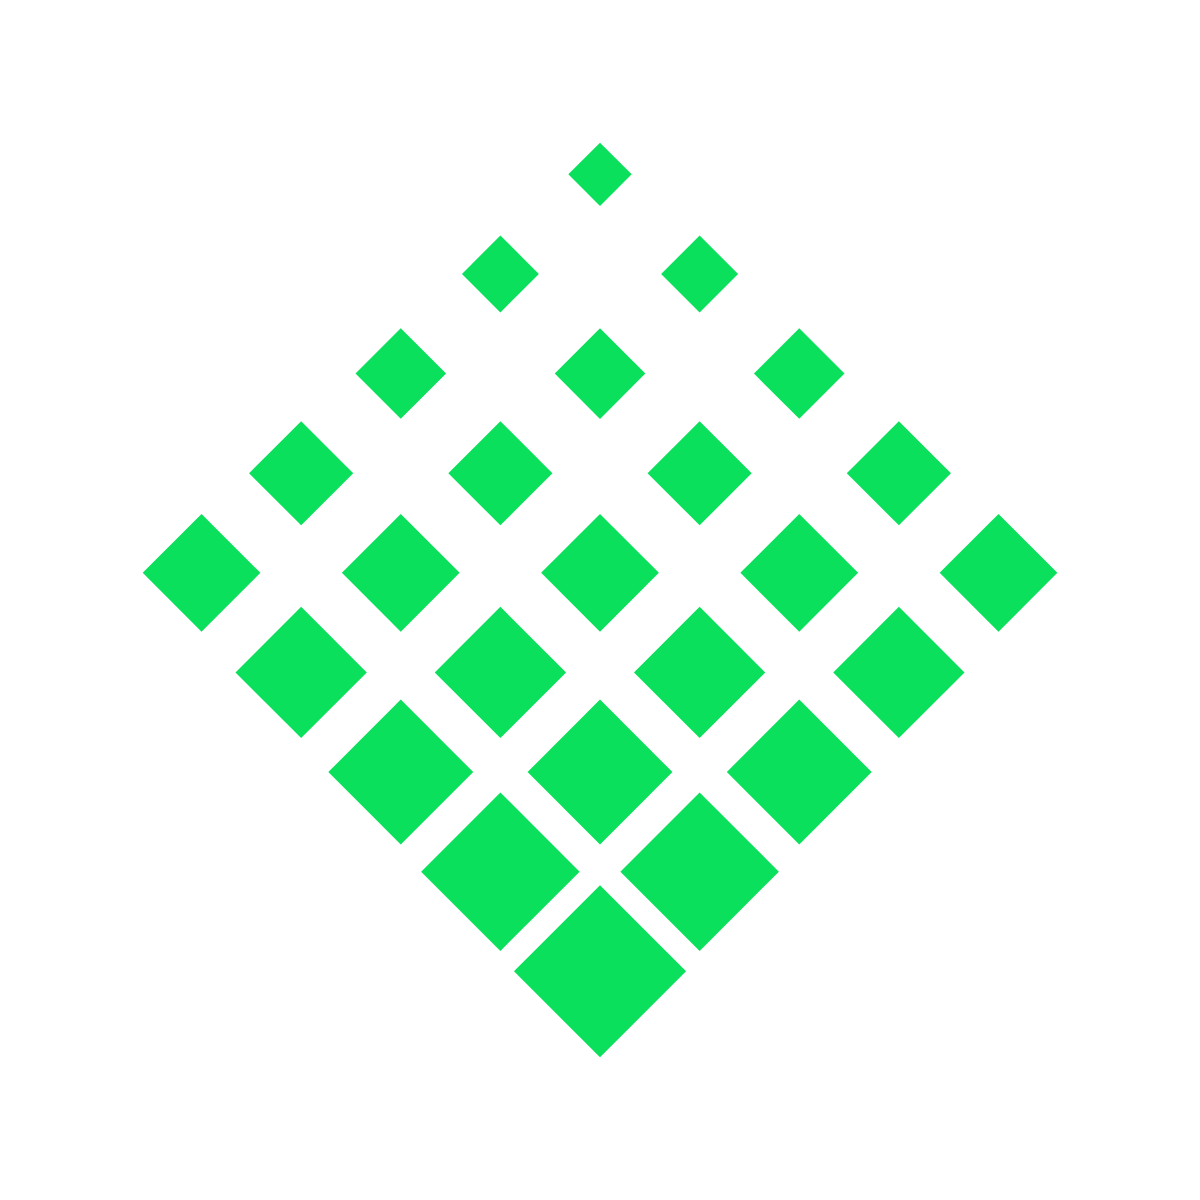
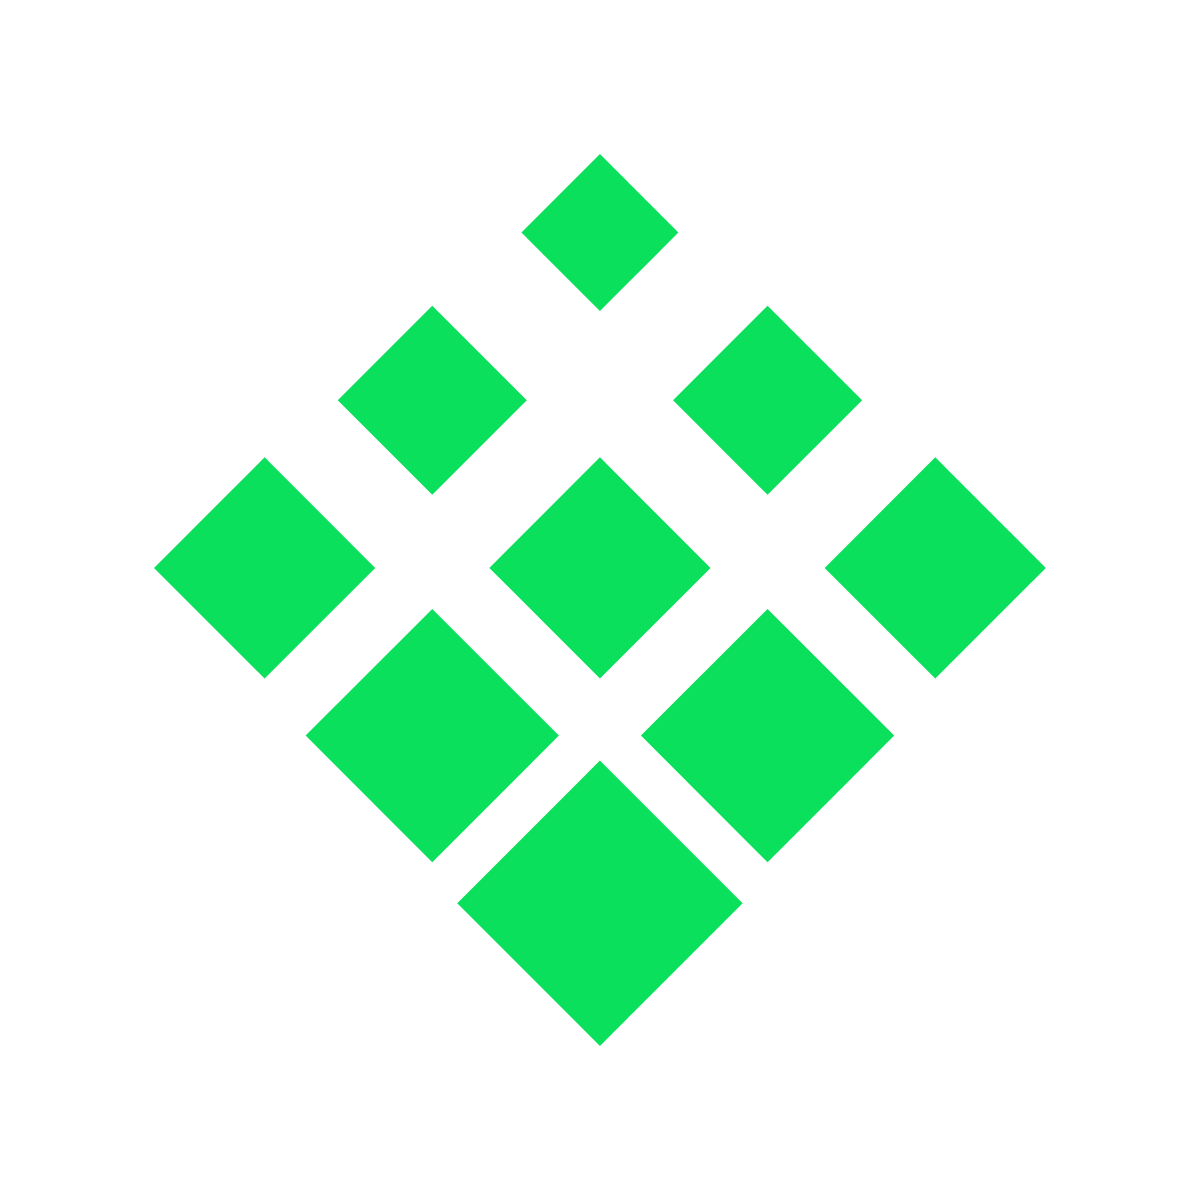
fix(vm): the container stack, proven — no 503 after boot, no 502 when publishing
The VM path was written but never run. It runs now, here: Docker + Postgres 16
+ Caddy, the whole stack up, measured. (This sandbox's containers cannot reach
the npm registry, so the image was built through the sandbox's proxy and CA in
a throwaway Dockerfile — only the network differs from the file in the repo.)

Two defects that no amount of reading would have found:

  - 30 seconds of 503 after every publish. The Caddyfile did ACTIVE health
    checking, and with a single upstream that is a trap: the first check lands
    while the app is still booting, the upstream is marked dead, and it stays
    dead until the next round. Removed. What watches the app now is the
    container's healthcheck, which hits /healthz — and /healthz only answers
    200 when the database answers.

  - 1.3 seconds of 502 per publish, measured with a request every 200ms across
    `up -d --build`. Recreating the container takes the name `app` out of
    Docker's DNS, and Caddy does not retry a request that fails to resolve.
    Fixed with `dynamic a`: the address is resolved per request, and
    lb_try_duration makes the request wait. Re-measured: 0 failures in 120
    samples.

Also verified against the running stack: automatic HTTPS (certificate issued,
http → 308), migrations applied by the container at start, the database
surviving both a restart and a full recreate, and the app refusing to boot in
production without DVFLY_TOKEN_KEY, with the message that says what to do.
[…]

Changed region(s): [[0.1233, 0.1233, 0.8633, 0.8942], [0.8633, 0.4625, 0.8942, 0.4933], [0.6783, 0.6475, 0.7092, 0.6783]]

diff --git a/docs/PROGRESSO.md b/docs/PROGRESSO.md
@@ -1245,12 +1245,39 @@ aparece como erro sem nome dentro do admin.
 - 102 testes, typecheck, build, e o `docker compose config` valida.
 
 **O que não deu para verificar aqui, dito na cara:** o `docker build` não completa neste
-ambiente — os containers não têm saída para o `registry.npmjs.org` (o `npm ci` morre no
-meio). O caminho da VM está escrito e validado na configuração, mas a imagem só será provada
-na primeira vez que você rodar `docker compose up -d --build` na VM.
+ambiente com a rede normal — os containers não alcançam o `registry.npmjs.org`. (Resolvido
+no mesmo dia passando a proxy do sandbox; veja a entrada seguinte, onde a pilha inteira roda.)
 
 **Guia:** `docs/HOSPEDAGEM.md` — as duas estradas, passo a passo, com a tabela de erros
 comuns e a nota honesta sobre o plano Hobby da Vercel ser para uso não comercial.
+
+### ✅ A pilha da VM provada de ponta a ponta — e dois defeitos consertados (16/09)
+
+O usuário escolheu a VM. Antes de ele encostar na máquina dele, a pilha inteira subiu **aqui**
+(Docker + Postgres 16 + Caddy). Os containers deste ambiente não alcançam o `registry.npmjs.org`;
+a imagem foi construída passando a proxy e a CA do sandbox num `Dockerfile.test` descartável —
+o que muda é só a rede, o resto da imagem é o arquivo do repositório.
+
+O que a prova pegou (e que nenhuma leitura de código pegaria):
+
+1. **503 por 30 s depois de publicar.** O `Caddyfile` fazia checagem ATIVA de saúde. Com um
+   destino só, a primeira checagem cai enquanto o app ainda sobe e o destino fica marcado como
+   morto até a rodada seguinte — 30 segundos de 503 para todo mundo. Tirada. Quem vigia agora é
+   o `healthcheck` do container (bate no `/healthz`, que só dá 200 com o banco respondendo).
+2. **1,3 s de 502 a cada publicação** (medido com uma requisição a cada 200 ms durante um
+   `up -d --build`): ao recriar o container, o nome `app` some do DNS do Docker e o Caddy não
+   repete requisição que falha em DNS. Conserto: `dynamic a` — o endereço é resolvido a cada
+   requisição, com `lb_try_duration`. Nova medição: **0 falhas em 120 amostras**.
+
+Também medido e conferido: HTTPS automático (certificado emitido pelo Caddy, `http` → 308),
+as migrations aplicadas sozinhas no start (log do container), o banco **sobrevivendo** a
+reinício e a recriação do container, e o app **recusando subir** em produção sem
+`DVFLY_TOKEN_KEY` — com a mensagem que diz o que fazer.
+
+A imagem saiu de **899 MB para 733 MB**: `npm prune --omit=dev` depois do build (o CLI do
+Prisma virou dependência de verdade, porque é ele que aplica as migrations no start) e o motor
+extra do Prisma (`rhel-openssl-3.0.x`, que só a Vercel usa) passou a entrar **só quando
+`VERCEL=1`** — o bloco `generator` também é gerado agora, pela mesma regra do datasource.
 
 ### ✅ A logo virou marca do app (16/09)
 

diff --git a/docs/HOSPEDAGEM.md b/docs/HOSPEDAGEM.md
@@ -151,11 +151,21 @@ nano .env     # preencha DVFLY_DOMAIN, POSTGRES_PASSWORD, as duas da Shopify e a
 
 ```bash
 docker compose up -d --build
-docker compose ps        # os três têm que estar "running"
+docker compose ps        # os três "running"; o app diz "(healthy)" em até 1 min
 curl -s https://dvfly.seudominio.com.br/healthz
 ```
 
 O app aplica as migrations sozinho a cada start — não existe passo manual de banco.
+
+O que esperar, medido nesta bancada com a pilha real subida (Docker + Postgres + Caddy):
+
+| | |
+|---|---|
+| Primeiro `up` | o Postgres fica saudável, **só então** o app sobe, aplica a migration e serve |
+| Imagem | ~730 MB (o que compila é podado; sobra o CLI do Prisma, que aplica as migrations) |
+| HTTPS | o Caddy pega o certificado sozinho; `http://` responde 308 para `https://` |
+| Publicar uma versão nova | **0 requisições perdidas** — quem chega durante a troca espera o app voltar |
+| Banco | sobrevive a publicação e a reinício (vive num volume, não na imagem) |
 
 ### 4. Daí em diante: publicar uma versão nova
 
@@ -163,6 +173,13 @@ Na sua máquina Windows, crie o arquivo `publicar-vm.txt` na pasta do projeto co
 linha** — `usuario@ip-ou-dominio` — e dê duplo clique em **`PUBLICAR-DVFLY-VM.cmd`**. Ele
 envia o código para o GitHub e manda a VM puxar e reconstruir. O banco fica intacto: ele
 vive num volume do Docker, não dentro da imagem.
+
+### O ícone do app
+
+`docs/marca/app-icon-1200-escuro.png` (1200×1200, PNG) é o arquivo do campo **Ícone do app**
+no Dev Dashboard. É a marca simplificada, que é a que continua legível nos ~40 px em que a
+Shopify mostra o ícone — a marca cheia, de 25 losangos, vira poeira nesse tamanho. Há também
+a versão de fundo claro e as duas com a marca cheia, na mesma pasta.
 
 ### Backup (faça)
 
@@ -234,6 +251,8 @@ Confira no fim: `https://seu-endereco/healthz` deve mostrar `"lojas"` maior que 
 | Tudo dá 400 ao salvar/publicar | o proxy não está mandando `X-Forwarded-Proto` | na VM é o `Caddyfile` (já vem certo); atrás de outro proxy, configure isso |
 | Vercel: `Query engine library not found` | o motor do Prisma não veio para a função | confirme que o build rodou `prisma generate` (está no `npm run build`) e refaça o deploy sem cache |
 | A loja diz que o app não está instalado | o `application_url` da Shopify ainda aponta para o túnel antigo | refaça o passo **Ligar na Shopify** |
+| VM: `docker compose ps` mostra o app reiniciando sem parar | o app recusou subir; quase sempre falta variável no `.env` | `docker compose logs app` — a primeira linha diz qual |
+| VM: 502 por alguns segundos ao publicar | não deveria acontecer (o Caddy resolve o endereço do app a cada requisição e espera) | confira se o `Caddyfile` da VM é o do repositório, com o bloco `dynamic a` |
 
 ---
 
